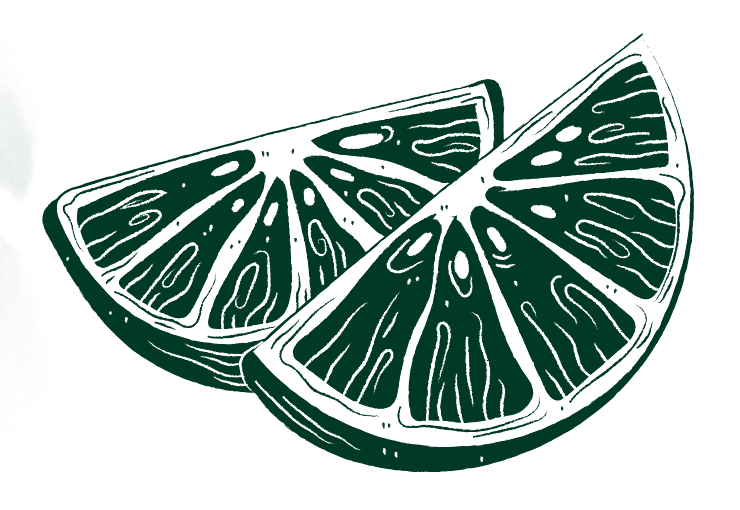
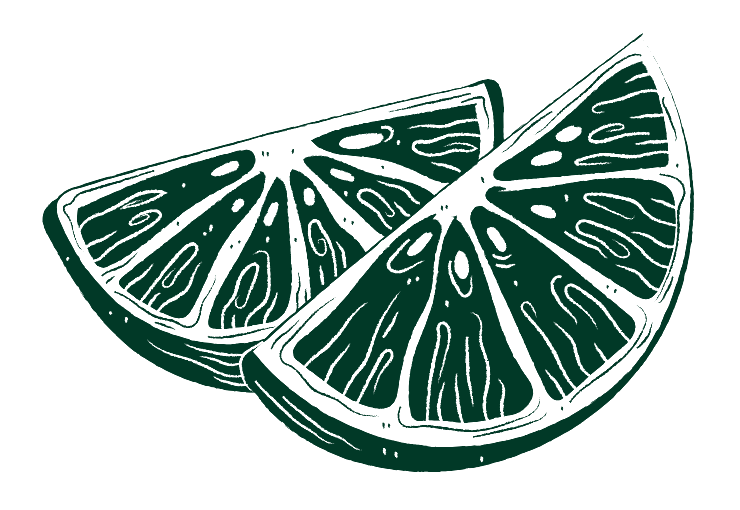
Footer claro, borde rasgado antes del footer y limpieza de ilustraciones
- footer sobre papel con texto y botón en verde
- tercer borde rasgado entre Clásicos y el footer
- solape de 1px en los bordes para eliminar la línea fina al escalar
- copa y limas reextraídas sin el residuo de textura del fondo

Claude-Session: https://claude.ai/code/session_017PXNp2jZDWZNvsUCmH12qS

diff --git a/estilos.css b/estilos.css
@@ -195,8 +195,8 @@ li.trago--agotado.reveal.visible {
 
 /* ===== Footer del sitio ===== */
 .pie-sitio {
-  background: var(--verde);
-  color: var(--crema);
+  background: var(--papel);
+  color: var(--verde);
   text-align: center;
   padding: 3rem 1.5rem max(2.5rem, env(safe-area-inset-bottom));
   padding-left: max(1.5rem, env(safe-area-inset-left));
@@ -208,9 +208,9 @@ li.trago--agotado.reveal.visible {
   font-size: 0.95rem;
   font-weight: 700;
   letter-spacing: 0.04em;
-  color: var(--crema);
+  color: var(--verde);
   background: transparent;
-  border: 2px solid var(--crema);
+  border: 2px solid var(--verde);
   border-radius: 999px;
   padding: 0.75rem 1.6rem;
   cursor: pointer;
@@ -222,8 +222,8 @@ li.trago--agotado.reveal.visible {
 
 .pie-boton:hover,
 .pie-boton:focus-visible {
-  background: var(--crema);
-  color: var(--verde);
+  background: var(--verde);
+  color: var(--crema);
 }
 
 .pie-boton:active {
@@ -249,12 +249,12 @@ li.trago--agotado.reveal.visible {
 .pie-legal a {
   color: inherit;
   text-decoration: none;
-  border-bottom: 1px solid rgba(253, 245, 229, 0.4);
+  border-bottom: 1px solid rgba(1, 57, 39, 0.4);
 }
 
 .pie-legal a:hover,
 .pie-legal a:focus-visible {
-  border-bottom-color: var(--crema);
+  border-bottom-color: var(--verde);
 }
 
 /* ===== Ventana de propuesta ===== */
@@ -381,6 +381,10 @@ li.trago--agotado.reveal.visible {
   display: block;
   width: 100%;
   height: auto;
+  /* al escalar la imagen el navegador mezcla la última fila de píxeles y deja
+     una línea fina: el solape de 1px la tapa */
+  margin-top: -1px;
+  margin-bottom: -1px;
 }
 
 /* ===== Página de ingredientes (admin.html) ===== */

diff --git a/index.html b/index.html
@@ -11,7 +11,7 @@
       href="https://fonts.googleapis.com/css2?family=Poppins:wght@400;500;700;800&family=Monsieur+La+Doulaise&display=swap"
       rel="stylesheet"
     />
-    <link rel="stylesheet" href="estilos.css?v=20260829-2" />
+    <link rel="stylesheet" href="estilos.css?v=20260829-3" />
   </head>
   <body>
     <!-- ===== Sección verde ===== -->
@@ -123,6 +123,11 @@
       </div>
     </section>
 
+    <!-- ===== Borde de papel rasgado (verde → papel) ===== -->
+    <div class="rasgado reveal-rasgado" aria-hidden="true">
+      <img src="img/rasgado.png" alt="" width="2121" height="320" />
+    </div>
+
     <!-- ===== Footer ===== -->
     <footer class="pie-sitio">
       <button type="button" class="pie-boton" id="abrir-propuesta">
@@ -170,7 +175,7 @@
       </div>
     </div>
 
-    <script src="config.js?v=20260829-2"></script>
-    <script src="menu.js?v=20260829-2"></script>
+    <script src="config.js?v=20260829-3"></script>
+    <script src="menu.js?v=20260829-3"></script>
   </body>
 </html>

diff --git a/admin.html b/admin.html
@@ -6,7 +6,7 @@
     <meta name="theme-color" content="#013927" />
     <meta name="robots" content="noindex" />
     <title>Admin · Cocktail Menu</title>
-    <link rel="stylesheet" href="estilos.css?v=20260829-2" />
+    <link rel="stylesheet" href="estilos.css?v=20260829-3" />
   </head>
   <body>
     <!-- ===== Entrada con clave ===== -->
@@ -133,7 +133,7 @@
       </p>
     </section>
 
-    <script src="config.js?v=20260829-2"></script>
-    <script src="admin.js?v=20260829-2"></script>
+    <script src="config.js?v=20260829-3"></script>
+    <script src="admin.js?v=20260829-3"></script>
   </body>
 </html>
